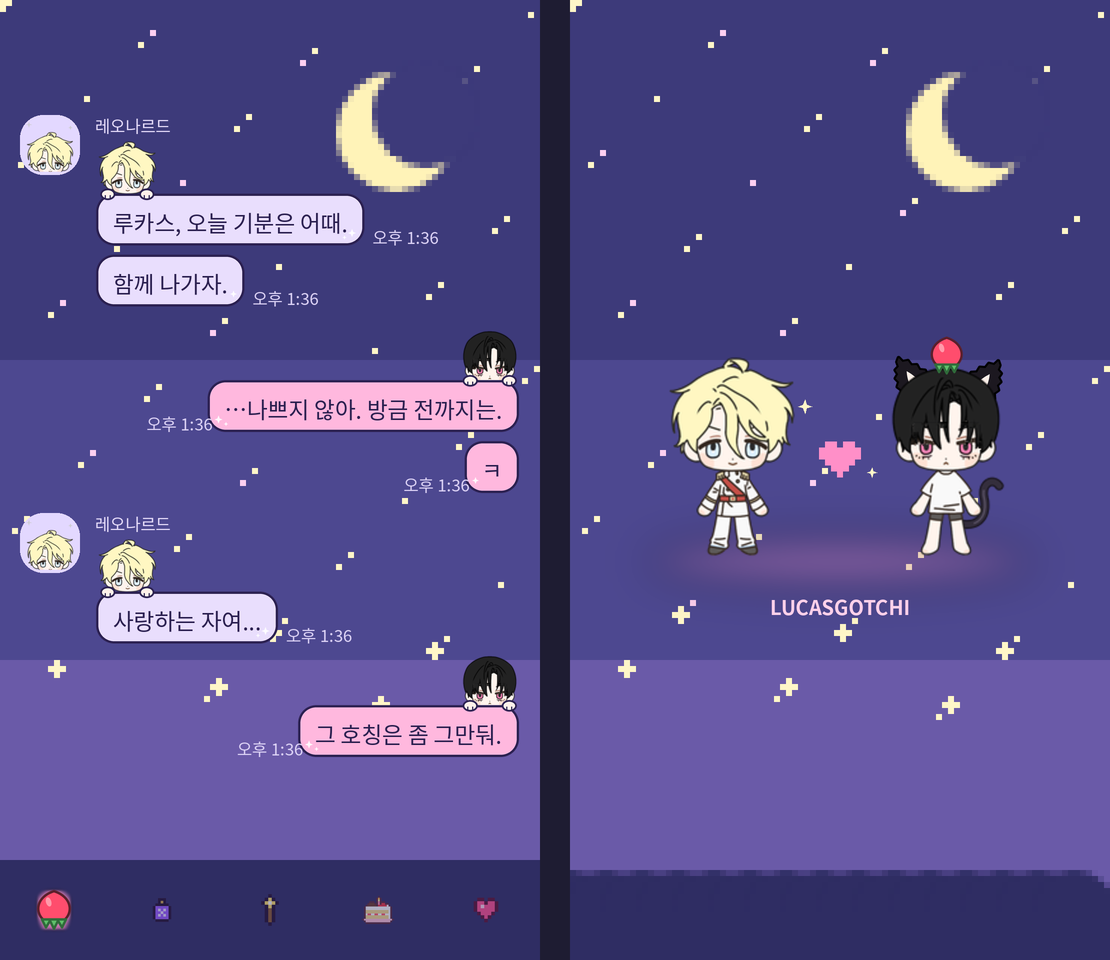
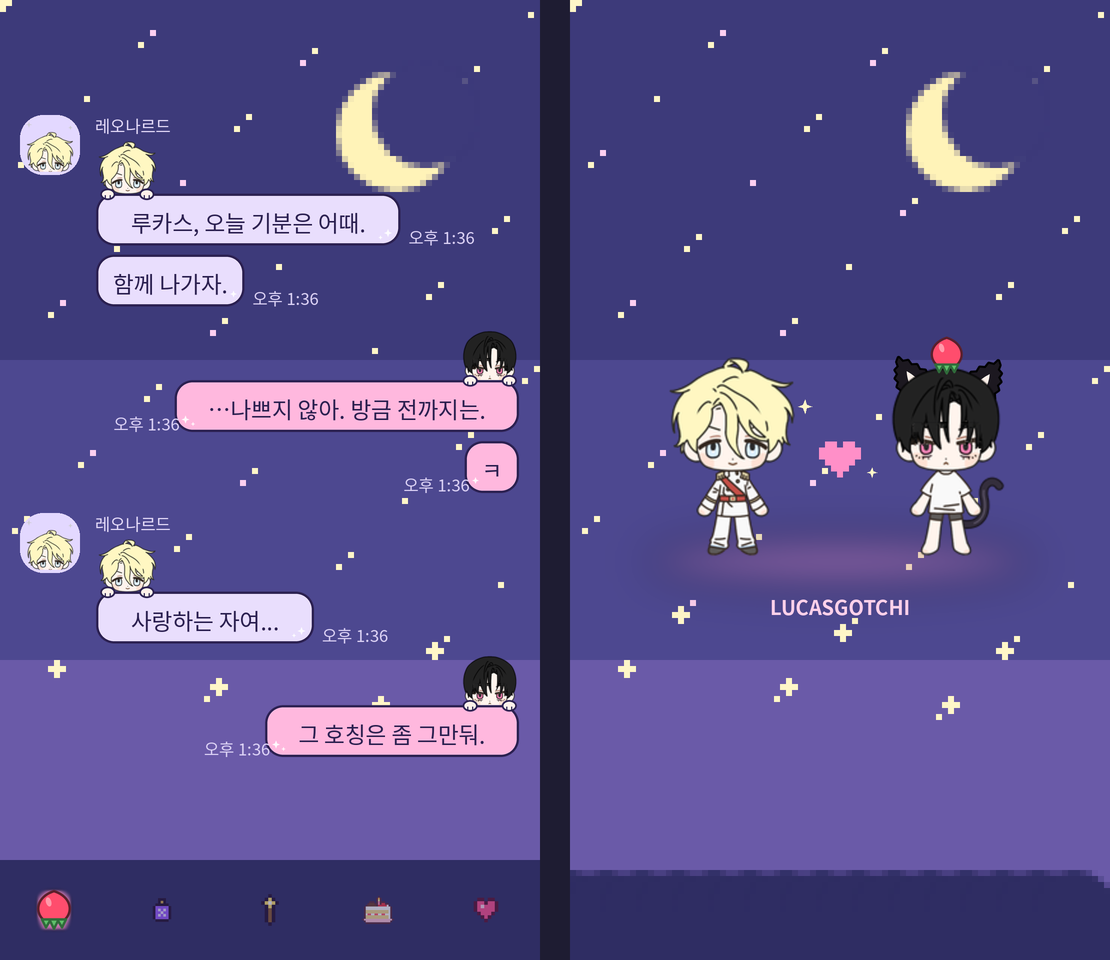
카카오톡 테마: 짧은 말에서 캐릭터 안 찌그러지게 첫 말풍선 여백, 상단 칩 글자 진분홍
Claude-Session: https://claude.ai/code/session_013rWy3t1hubjkgicJNumNXs

diff --git a/kakao-theme/gen.py b/kakao-theme/gen.py
@@ -12,6 +12,7 @@
 
 리소스 이름·색 이름은 카카오 공식 안드로이드 테마 가이드(9.2.5)를 따른다.
 """
+import math
 import os
 import sys
 
@@ -33,7 +34,7 @@ C = {
     'bg': '#3d3a7a', 'bg_deep': '#2f2d63', 'surface': '#4d4890', 'pressed': '#5a52a3',
     'border': '#4b4690', 'text': '#fff4fb', 'text_hi': '#ffd1ea', 'subtext': '#cbbdf0',
     'subtext_hi': '#e6dcff', 'accent': '#ff8fc8', 'accent_dim': '#e46aa9', 'on_accent': '#ffffff',
-    'button_text': '#f06aa8', 'button_text_hi': '#ffd1ea', 'line': '#00000000',
+    'header': '#ff5fa8', 'button_text': '#f06aa8', 'button_text_hi': '#ffd1ea', 'line': '#00000000',
 }
 ME = '#ffb8de'      # 보낸 말풍선 (분홍)
 YOU = '#e9defd'     # 받은 말풍선 (연보라)
@@ -41,8 +42,8 @@ SKIN = '#fff1ea'
 
 COLORS = [
     ('theme_background_color', 'bg', None),
-    ('theme_header_color', 'text', None),
-    ('theme_header_cell_color', 'bg', None),
+    ('theme_header_color', 'header', None),        # 위쪽 제목·아이콘, 그리고 '전체/안읽음' 칩 글자 (칩 바탕은 카톡이 흰색으로 고정)
+    ('theme_header_cell_color', 'bg_deep', None),
     ('theme_feature_browse_tab_color', 'subtext', None),
     ('theme_feature_browse_tab_focused_color', 'accent', None),
     ('theme_tab_bannerbadge_background_color', 'accent', None),
@@ -207,40 +208,51 @@ def glitter(img, pts):
     img.alpha_composite(big.resize(img.size, Image.LANCZOS))
 
 
+MIN_TEXT = 12      # 카톡이 1~2글자 말에 주는 글자 폭 (dp, 대략)
+
+
 def bubble(who, first):
-    """who: 'me'(오른쪽, 교복 루카스) / 'you'(왼쪽, 교복 레오). first: 01(묶음 첫 말) 이면 캐릭터를 얹음."""
+    """who: 'me'(오른쪽, 교복 루카스) / 'you'(왼쪽, 교복 레오). first: 01(묶음 첫 말) 이면 캐릭터를 얹음.
+
+    9-patch 의 늘어나지 않는 칸보다 말풍선이 좁아지면 안드로이드가 그림을 통째로 눌러 얼굴이 찌그러짐.
+    그래서 01 은 '고정 칸 폭 ≤ 글자 여백 + 짧은 글자 폭' 이 되도록 글자 양옆 여백을 넓힘.
+    """
     fill = ME if who == 'me' else YOU
-    w = SIDE + 1 + OTHER if first else 2 * OTHER + 1
     top = TOP if first else 0
     h = top + BODY_H
+    if not first:
+        w = 2 * OTHER + 1
+        img = body(w, h, fill, top)
+        glitter(img, [(w - 8, h - 9, 2.2)] if who == 'you' else [(8, h - 9, 2.2)])
+        pad = (12 * DP, 8 * DP, 12 * DP, 8 * DP)
+        return ninepatch(img, OTHER * DP, (RAD + 2) * DP, pad)
+
+    name = 'lucasSuit' if who == 'me' else 'leoAcad'
+    y0 = char(name).getbbox()[1]
+    raw = crop_to(name, PEEK[name], 14)
+    fig = fit(raw, (SIDE - 4) * DP, PEEK_H * DP)
+    fw = fig.width / DP
+    chin = (CHIN_PEEK[name] - y0) * fig.height / raw.height / DP     # 그림 안 턱 높이 (dp)
+    side = math.ceil(max(2 + fw, 2 + fw / 2 + 13 + 5.5) + 2)          # 캐릭터·손이 차지하는 고정 칸 (dp)
+    w = side + 1 + OTHER
     img = body(w, h, fill, top)
-    if first:
-        name = 'lucasSuit' if who == 'me' else 'leoAcad'
-        y0 = char(name).getbbox()[1]
-        raw = crop_to(name, PEEK[name], 14)
-        fig = fit(raw, (SIDE - 4) * DP, PEEK_H * DP)
-        chin = (CHIN_PEEK[name] - y0) * fig.height / raw.height / DP     # 그림 안 턱 높이 (dp)
-        # 턱이 말풍선 윗변에 오도록 → 얼굴은 다 보이고 몸은 말풍선 뒤에 숨음
-        fx = (2 if who == 'you' else w - 2 - fig.width / DP)
-        fy = top + 1 - chin
-        layer = Image.new('RGBA', img.size, (0, 0, 0, 0))
-        layer.alpha_composite(fig, (round(fx * DP), round(fy * DP)))
-        cover = body(w, h, fill, top)
-        mask = Image.new('L', img.size, 0)
-        ImageDraw.Draw(mask).rectangle([0, top * DP, img.width, img.height], fill=255)
-        img = Image.alpha_composite(img, layer)
-        img.paste(cover, (0, 0), Image.composite(cover.getchannel('A'), Image.new('L', img.size, 0), mask))
-        cx = fx + fig.width / DP / 2
-        paws(img, (cx - 13, cx + 13), top + 1.2)
-        sx = SIDE if who == 'you' else OTHER                       # 늘어나는 세로줄은 캐릭터 반대쪽 칸
-        gl = [(w - 9, h - 9, 2.6), (w - 14, h - 6, 1.4)] if who == 'you' else [(8, h - 9, 2.6), (13, h - 6, 1.4)]
-    else:
-        sx = OTHER
-        gl = [(w - 8, h - 9, 2.2)] if who == 'you' else [(8, h - 9, 2.2)]
-    glitter(img, gl)
-    sy = top + RAD + 2
-    pad = (12 * DP, (top + 8) * DP, 12 * DP, 8 * DP)
-    return ninepatch(img, sx * DP, sy * DP, pad)
+    # 턱이 말풍선 윗변에 오도록 → 얼굴은 다 보이고 몸은 말풍선 뒤에 숨음
+    fx = (2 if who == 'you' else w - 2 - fw)
+    fy = top + 1 - chin
+    layer = Image.new('RGBA', img.size, (0, 0, 0, 0))
+    layer.alpha_composite(fig, (round(fx * DP), round(fy * DP)))
+    cover = body(w, h, fill, top)
+    mask = Image.new('L', img.size, 0)
+    ImageDraw.Draw(mask).rectangle([0, top * DP, img.width, img.height], fill=255)
+    img = Image.alpha_composite(img, layer)
+    img.paste(cover, (0, 0), Image.composite(cover.getchannel('A'), Image.new('L', img.size, 0), mask))
+    cx = fx + fw / 2
+    paws(img, (cx - 13, cx + 13), top + 1.2)
+    glitter(img, [(w - 9, h - 9, 2.6), (w - 14, h - 6, 1.4)] if who == 'you' else [(8, h - 9, 2.6), (13, h - 6, 1.4)])
+    sx = side if who == 'you' else OTHER                       # 늘어나는 세로줄은 캐릭터 반대쪽 칸
+    side_pad = max(12, math.ceil((w - MIN_TEXT) / 2))
+    pad = (side_pad * DP, (top + 8) * DP, side_pad * DP, 8 * DP)
+    return ninepatch(img, sx * DP, (top + RAD + 2) * DP, pad)
 
 
 def pressed(nine):
